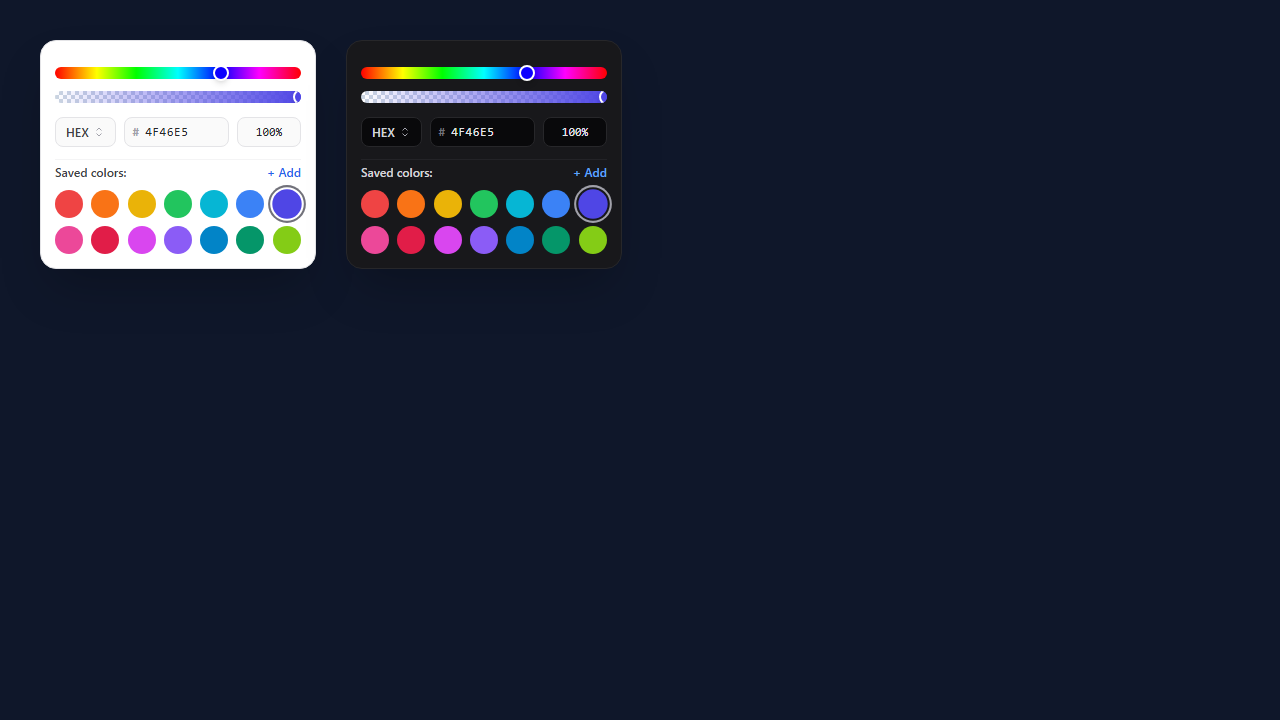
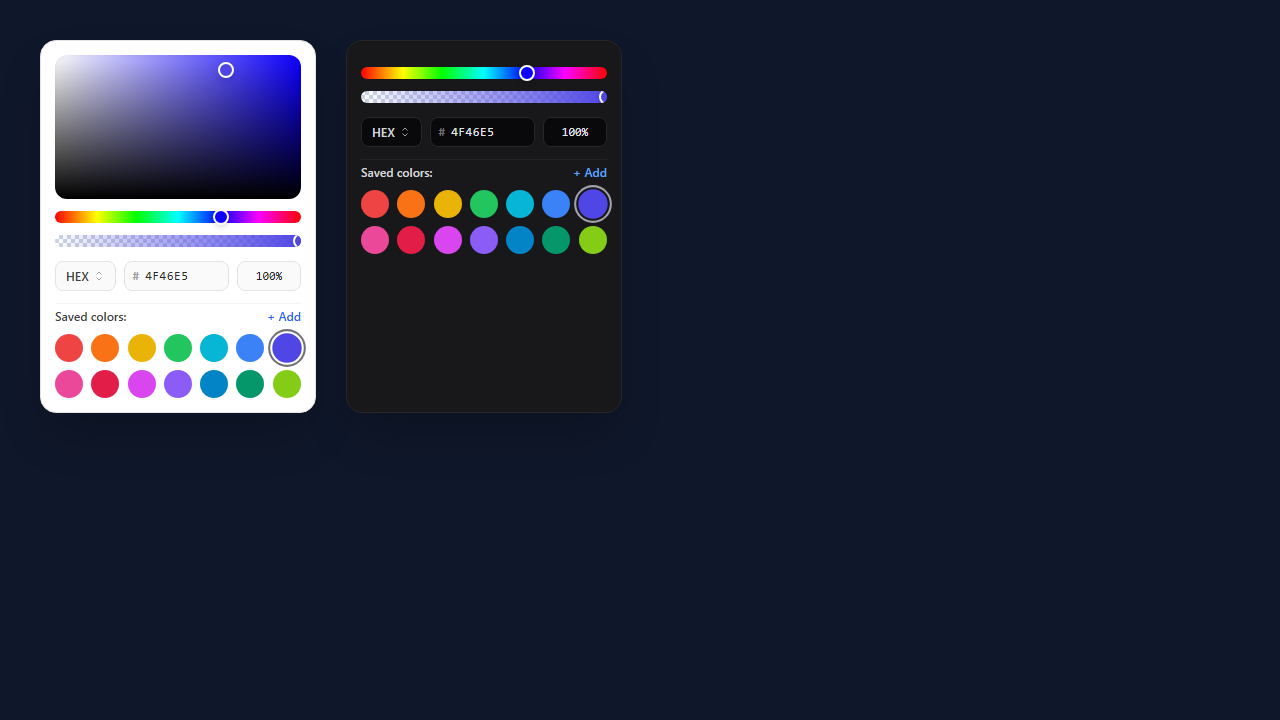
feat: add color picker UI component test file and asset

Changed region(s): [[0.0312, 0.0611, 0.25, 0.5806]]

diff --git a/frontend/test_picker.html b/frontend/test_picker.html
@@ -12,7 +12,7 @@
     <!-- Light Mode Container (like screenshot) -->
     <div class="w-[276px] p-3.5 bg-white border border-zinc-200 rounded-2xl shadow-2xl space-y-3 select-none">
       <!-- 1. 2D SV Canvas -->
-      <div class="relative w-full h-34 rounded-xl overflow-hidden cursor-crosshair shadow-inner"
+      <div class="relative w-full h-36 rounded-xl overflow-hidden cursor-crosshair shadow-inner"
         style="background-color: hsl(243, 100%, 50%); background-image: linear-gradient(to top, #000000, transparent), linear-gradient(to right, #ffffff, transparent);">
         <div class="absolute w-4 h-4 rounded-full border-2 border-white shadow-md pointer-events-none -translate-x-1/2 -translate-y-1/2"
           style="left: 69.4%; top: 10.2%; background-color: #4F46E5;"></div>
